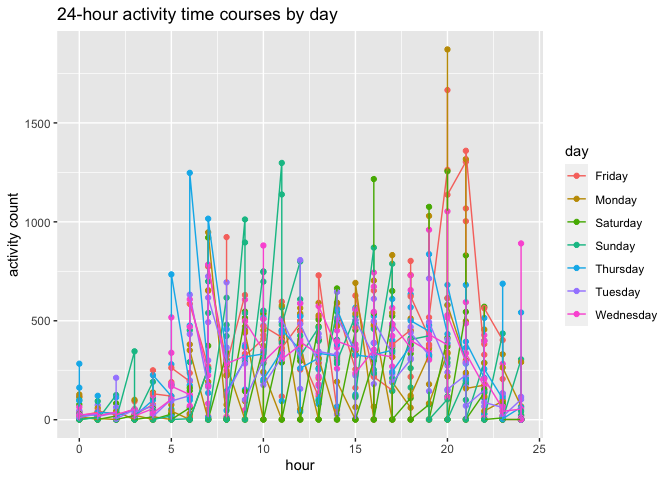
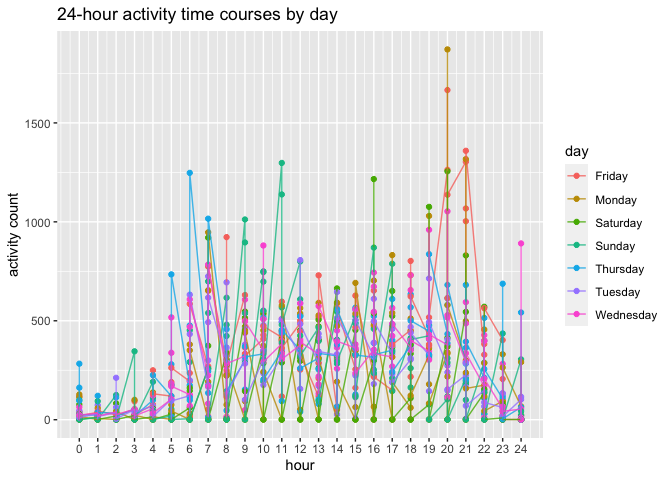
add a comment

diff --git a/p8105_hw3_wc2788.md b/p8105_hw3_wc2788.md
@@ -369,14 +369,18 @@ accel_data %>%
   ) %>%
   ggplot(aes(x = hour, y = hour_activity, color = day)) +
   geom_point() +
-  geom_line() +
+  geom_line(alpha = 0.8) +
   labs(
     title = "24-hour activity time courses by day",
     x = "hour",
     y = "activity count"
-  )
+  ) +
+  scale_x_continuous(
+    breaks = c(0:24) # a day have 24 hours
+  ) 
 ```
 
     ## `summarise()` has grouped output by 'day_id', 'day'. You can override using the `.groups` argument.
 
-![](p8105_hw3_wc2788_files/figure-gfm/unnamed-chunk-13-1.png)<!-- -->
+![](p8105_hw3_wc2788_files/figure-gfm/unnamed-chunk-13-1.png)<!-- --> he
+is less active at 12am-4am.
